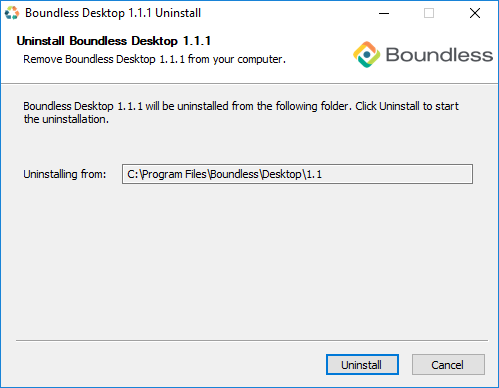
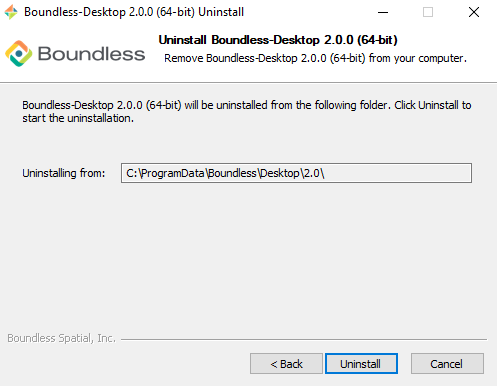
Update uninstall instructions

diff --git a/docs/source/install/uninstall.rst b/docs/source/install/uninstall.rst
@@ -24,7 +24,13 @@ folder or from the start menu.
 
    .. figure:: img/install_uninstall_win_UAC_message.png
 
-#. In the next dialog, press :guilabel:`Uninstall` to proceed with the
+#. On the Uninstaller welcome page, click :guilabel:`Next`.
+
+   .. figure:: img/install_uninstall_win_start_dialog.png
+
+
+#. In the next dialog, make sure you which to uninstall the software from the
+   announced folder. If so, press :guilabel:`Uninstall` to proceed with the
    uninstallation of Boundless Desktop from your computer.
 
    .. figure:: img/install_uninstall_win_dialog.png
@@ -33,7 +39,7 @@ folder or from the start menu.
 
 #. Once the process is finished, click :guilabel:`Close` to close the
    uninstaller window.
-   
+
 .. _install.uninstall.osx:
 
 OS X
